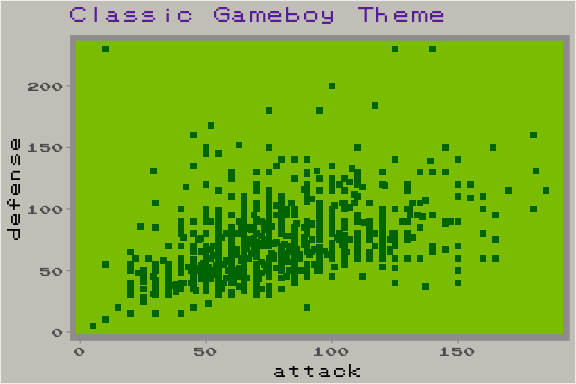
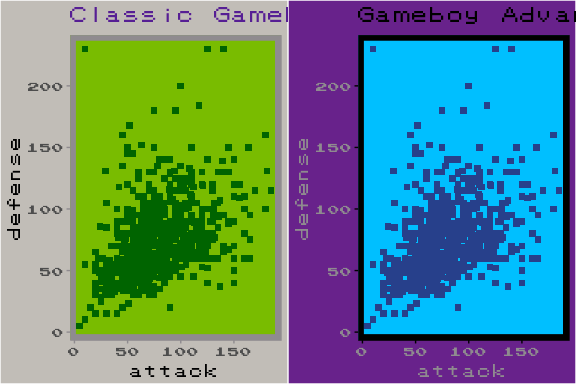
added gba theme

diff --git a/README.md b/README.md
@@ -44,15 +44,22 @@ Gamyboy theme
 If you want to get nostalgic.
 
 ``` r
-ggplot(pokemon,aes(attack,defense))+
-  geom_point(shape = 15,col = c("#006400"),size=2)+
-  theme_gameboy()+
-  labs(title = "Classic Gameboy Theme")
+p1 <- ggplot(pokemon,aes(attack,defense))+
+        geom_point(shape = 15,col = "#006400",size=2)+
+        theme_gameboy()+
+        labs(title = "Classic Gameboy Theme")
+
+p2 <- ggplot(pokemon,aes(attack,defense))+
+        geom_point(shape = 15,col = "#27408B",size=2)+
+        theme_gba()+
+        labs(title = "Gameboy Advanced Theme")
+
+gridExtra::grid.arrange(grobs=list(p1,p2),ncol=2)
 ```
 
 <img src="figures/theme-gameboy-1.png" width="80%" style="display: block; margin: auto;" />
 
-Status theme and health bars.
+Status theme and HP bar chart
 -----------------------------
 
 A theme inspired by HP bar in older Pokemon games. The theme is used in `gghealth`, a function that plots bar charts in HP bar style.
